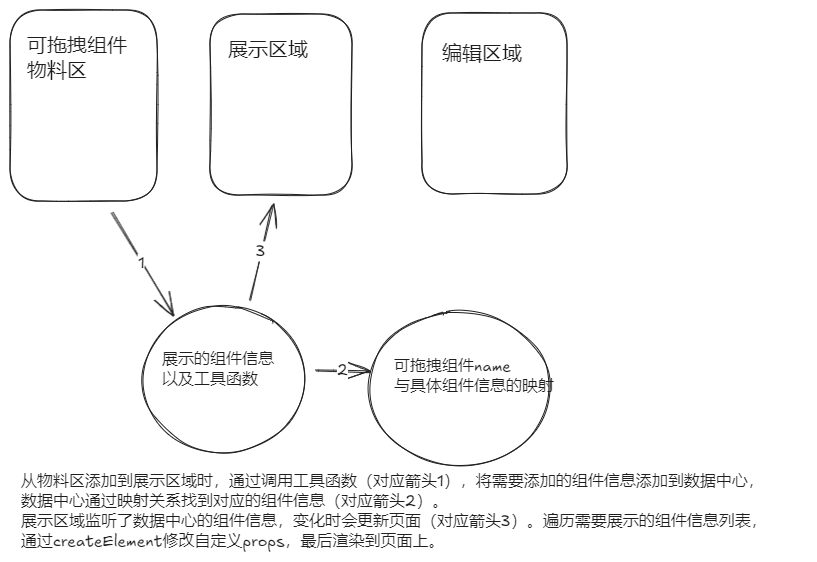
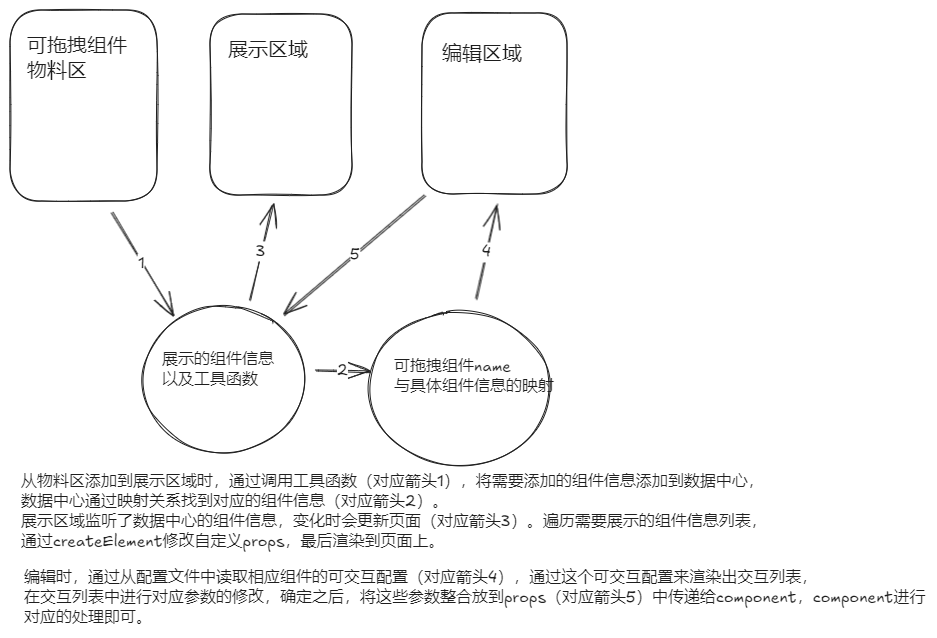
docs: lowcode

diff --git a/docs/lowcode/index.md b/docs/lowcode/index.md
@@ -1,5 +1,7 @@
 # 低代码编辑器
 
+详细的demo项目看[github仓库](https://github.com/Jippp/lowcode)
+
 ## 依赖
 
 - tailwindcss：方便css样式
@@ -197,5 +199,20 @@ const position = {
     const run = new Function('a', 'b', 'return a + b')
     run(1, 2)
   ```
+
+###  组件的联动
+
+组件和组件之间的联动，比如Button组件可以触发Modal组件。
+实现思路：
+  通过`forwardRef+useImmperativeHandle`暴露出组件内部方法，然后提供一个事件配置，最后在预览时获取所有的组件ref，通过配置的事件来触发组件ref上的方法。
+这里有个坑：ref的挂载是在更新提交阶段的，但是我们处理事件的方法上是在渲染阶段执行的，会导致处理事件时拿不到ref。这里的处理方式是render两遍，第一遍带上ref目的是拿到ref(为了没有ref时一遍就可以完成render)；第二遍目的是为了处理事件，注意不能带上ref(否则会导致无限render)。
+
+### 渲染后组件的拖拽
+
+这个只需要在物料组件中添加`useDrag`就可以了，注意区分移动和新建就好
+
+### 复杂物料组件的搭建
+
+比如table组件，可以将框架和columnItem组件分开，在table组件的框架中通过`React.Children.map`来将子组件渲染成需要的配置即可。然后在Table主框架组件中定义一些配置项、在ColumnItem组件中也定义一些配置项就好。
 
 
